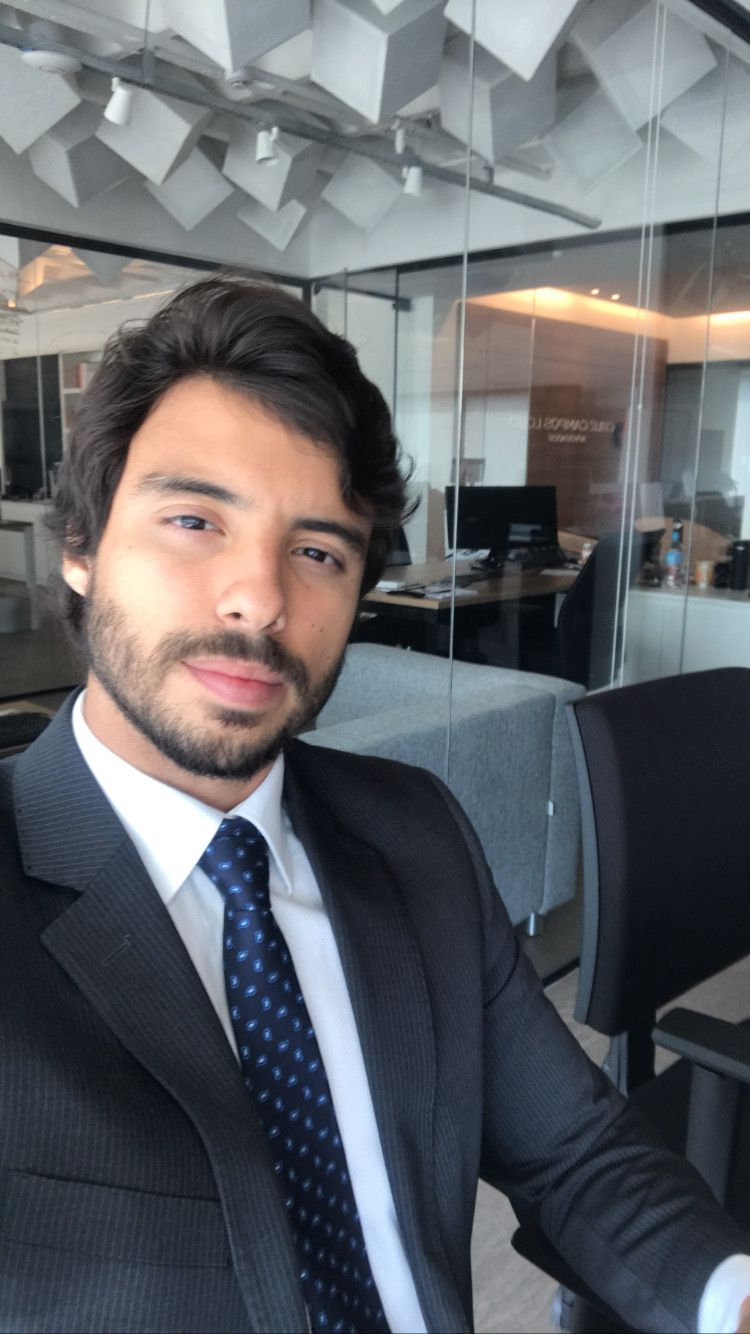
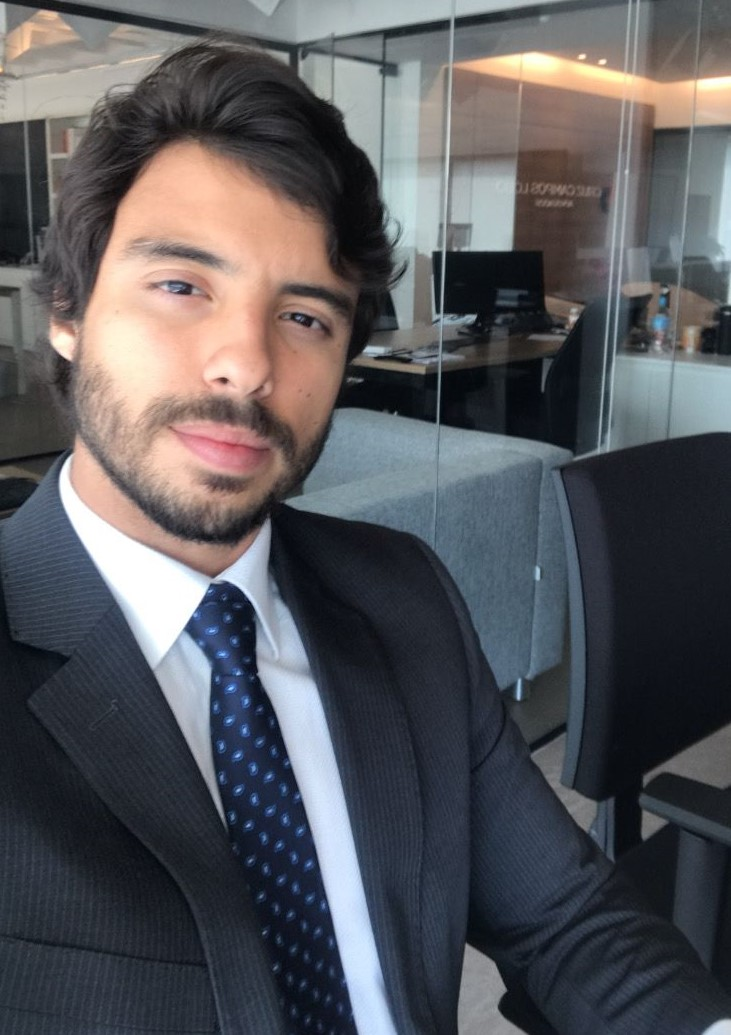
ajustes no layout e imagens

diff --git a/src/components/About/styles.css b/src/components/About/styles.css
@@ -3,7 +3,7 @@
     justify-content: center;
     padding: 5px;
     width: 90%;
-    height: 450px;
+
     margin-top: 30px;
     border-left: 2px solid rgb(0, 47, 88);
 }
@@ -29,8 +29,8 @@
 
 .about-content p {
     width: 90%;
-    line-height: 35px;
-    font-size: 1.6rem;
+    line-height: 45px;
+    font-size: 1.8rem;
 }
 
 .line {
@@ -52,11 +52,15 @@
 @media (max-width: 500px) {
 
     .container-about {
-        padding: 5px;
+        padding: 10px;
         width: 100%;
         border: none;
         margin-top: 0px;
         margin-bottom: 10px;
+    }
+
+    .about-content {
+        width: 50%;
     }
 
 
@@ -66,7 +70,7 @@
 
     .about-content p {
         width: 95%;
-        line-height: 22px;
+        line-height: 16px;
         font-size: 0.9rem;
     }
 
@@ -78,12 +82,14 @@
     }
 
     .about-image {
-        padding: 15px;
+        width: 50%;
+        padding: 10px;
     }
 
 
     .about-image img {
         width: 100%;
+        height: 100%;
     }
 
 }

diff --git a/src/components/ImageList/styles.css b/src/components/ImageList/styles.css
@@ -34,4 +34,12 @@ img {
     .container-office {
         margin-top: 10px;
     }
+
+    .container-images img {
+        width: 40%;
+    }
+
+    .about-office {
+        font-size: 1.1rem;
+    }
 }
